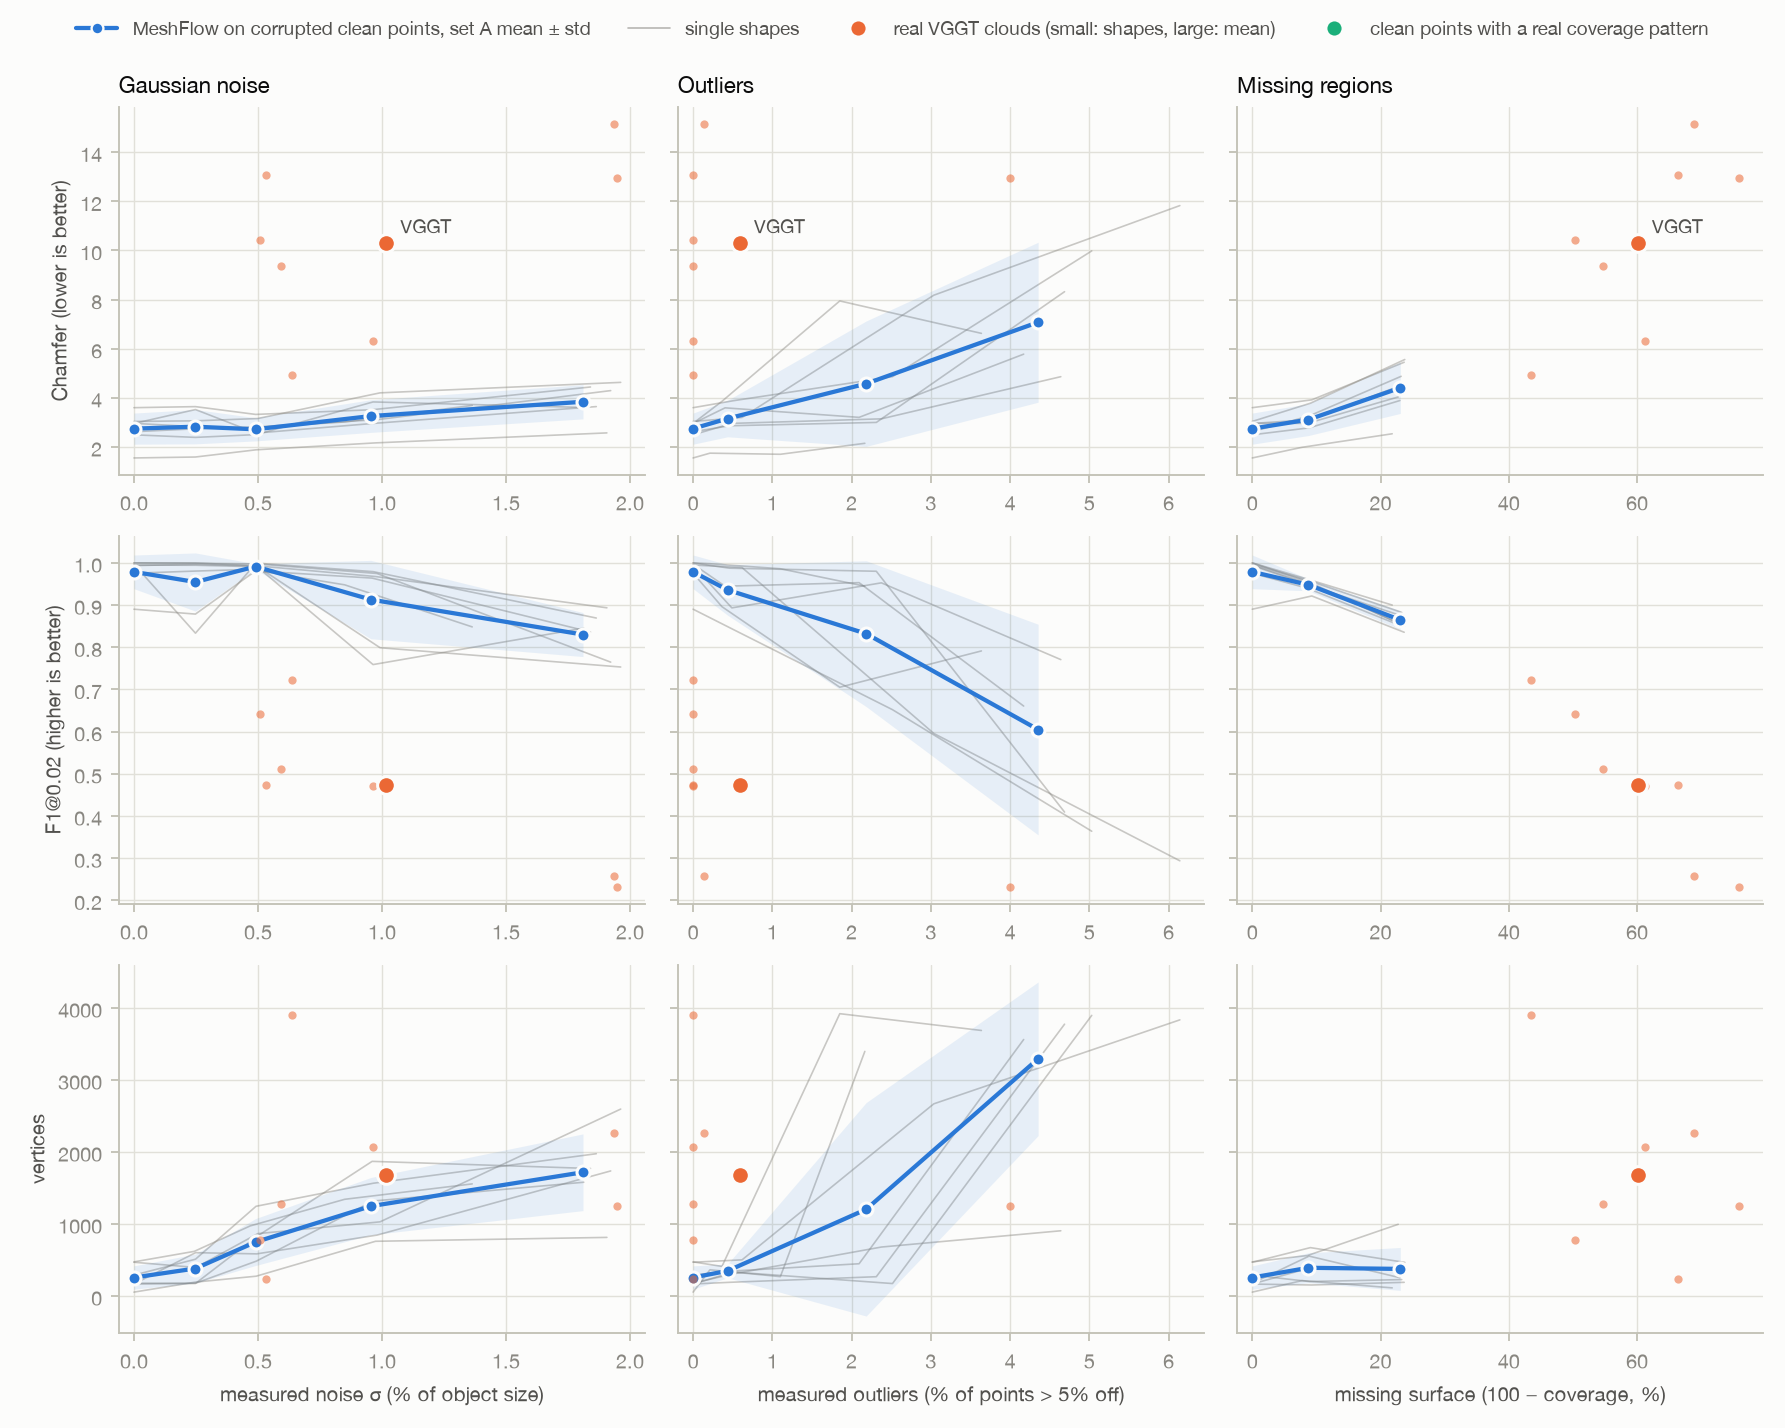
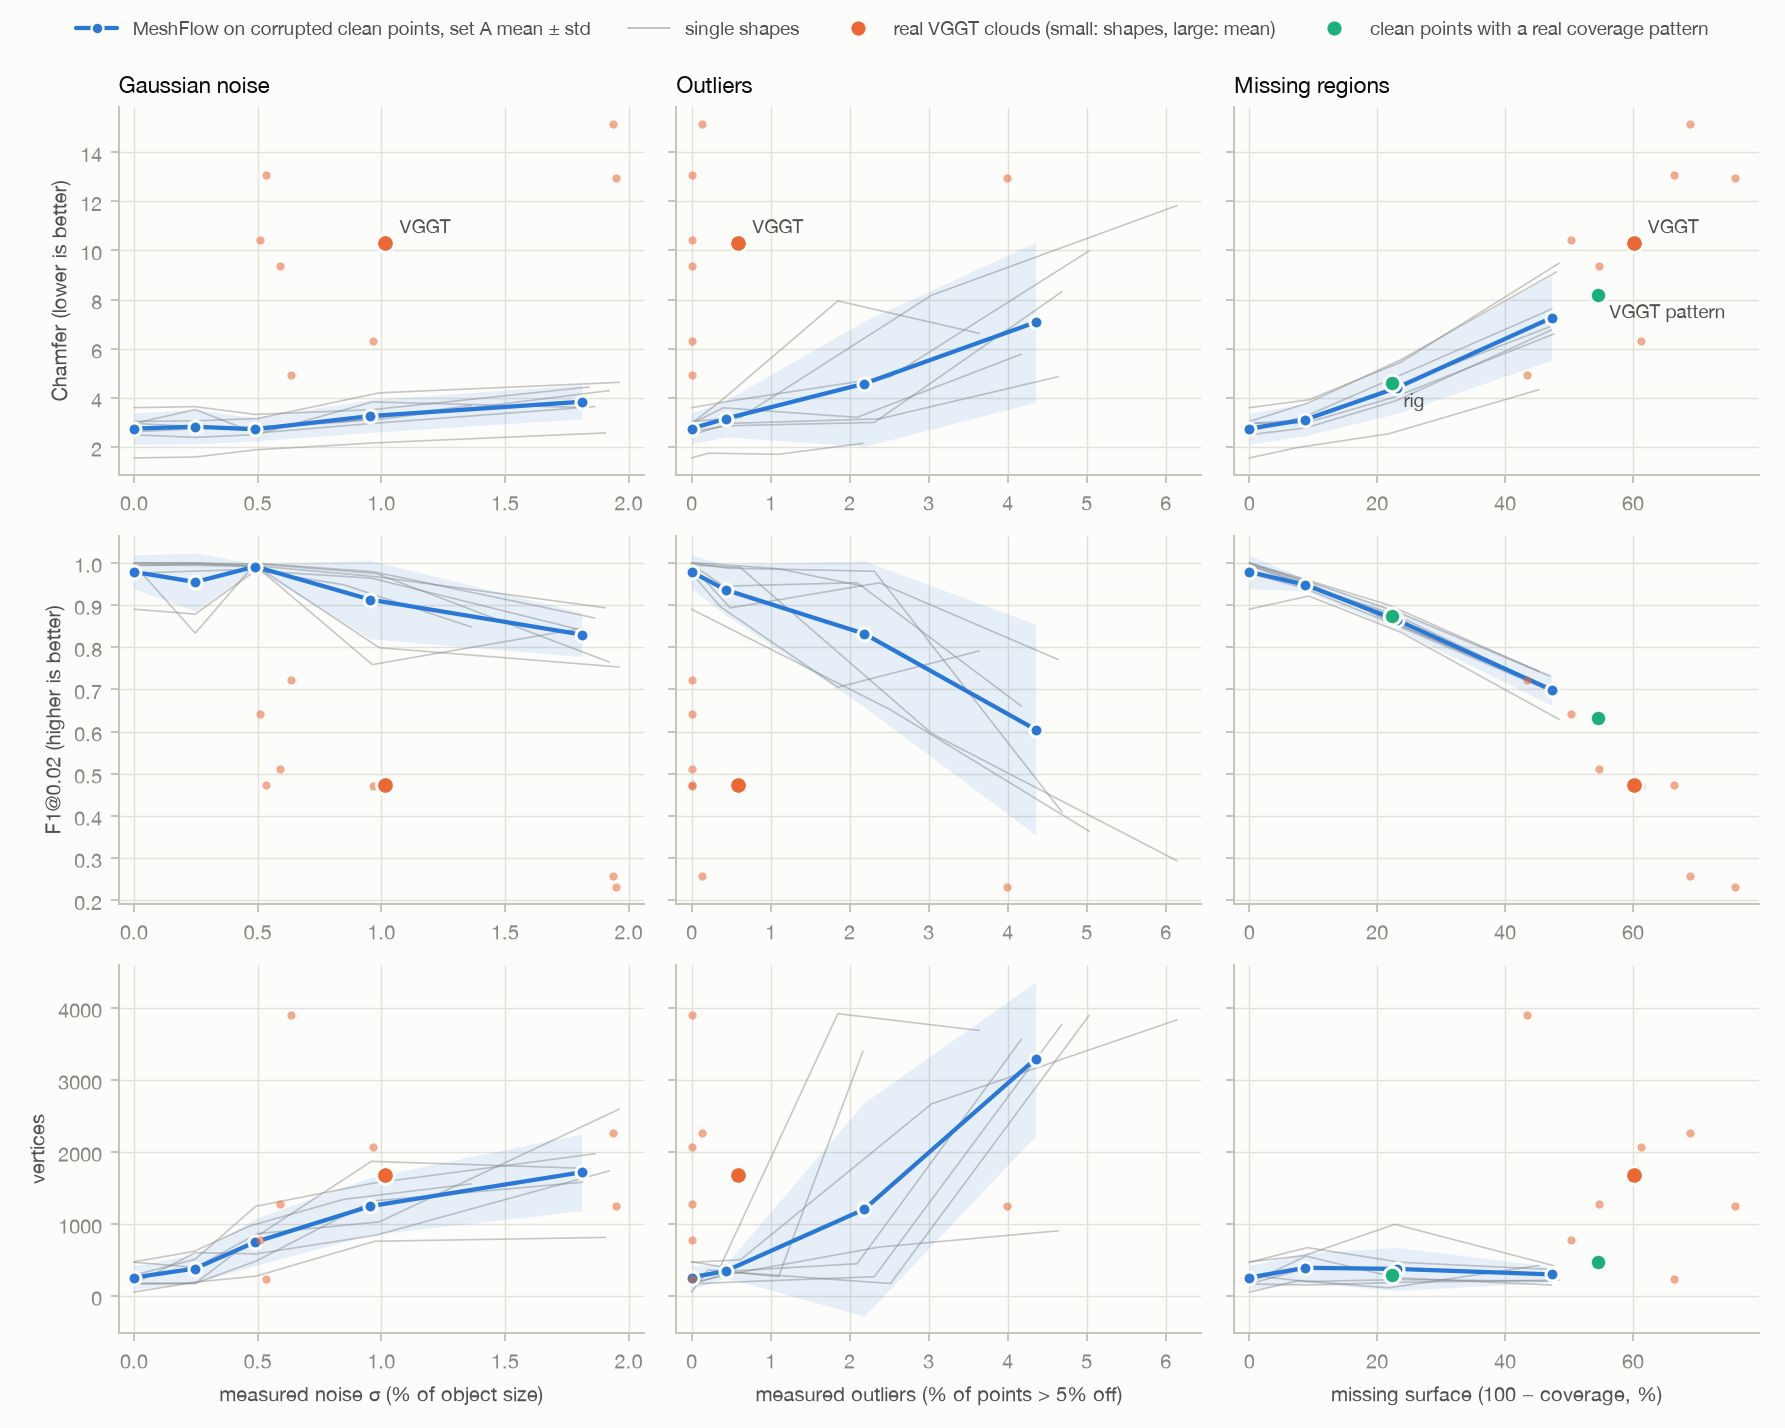
Robustness results: step 3 done (14:27)

diff --git a/docs/results/2026-11-08_robustness.md b/docs/results/2026-11-08_robustness.md
@@ -2,7 +2,7 @@
 
 Fahad Qaseem Khawar, 7 to 8 Nov 2026. Tables and figures are regenerated by `scripts/robustness_report.py` after every queue step; the interpretation at the end is written by hand.
 
-Queue: 336 of 600 jobs done (as of 2026-11-07 13:58:02).
+Queue: 420 of 600 jobs done (as of 2026-11-07 14:27:40).
 
 Protocol v1 (`docs/eval_protocol.md`): MeshFlow's Chamfer and Hausdorff (x100, GT scaled to [-0.5, 0.5]), normal consistency, F1 at 0.01 and 0.02 of the object size, vertex count, size = mesh extent / GT extent. Clouds reach the GT frame only through the render cameras. Set A = 7 original shapes, set B = 12 new shapes (clean test set); pencilpot is the dev shape and is in no mean.
 
@@ -12,14 +12,14 @@ The same statistics for every cloud (`src/photo2mesh/eval/robustness.py`), in % 
 
 | shape | points | noise σ (% of L) | bias (% of L) | outliers (%) | coverage (%) | visible from rig (%) |
 |---|---:|---:|---:|---:|---:|---:|
-| cylinder_472094 | 172,890 | 0.64 | -0.25 | 0.0 | 56.5 | - |
-| shackbot_94155 | 185,642 | 1.94 | 0.47 | 0.1 | 31.1 | - |
-| nsphere_186199 | 97,891 | 1.95 | 0.36 | 4.0 | 24.1 | - |
-| wheel_76903 | 200,000 | 0.59 | 0.35 | 0.0 | 45.3 | - |
-| presents_98021 | 200,000 | 0.53 | 0.79 | 0.0 | 33.6 | - |
-| monsterring_1356640 | 200,000 | 0.51 | 0.11 | 0.0 | 49.7 | - |
-| cryptex_105686 | 200,000 | 0.96 | 0.41 | 0.0 | 38.8 | - |
-| **mean ± std** | 179,489 ± 37,467 | 1.02 ± 0.65 | 0.32 ± 0.32 | 0.6 ± 1.5 | 39.9 ± 11.3 | - |
+| cylinder_472094 | 172,890 | 0.64 | -0.25 | 0.0 | 56.5 | 88.1 |
+| shackbot_94155 | 185,642 | 1.94 | 0.47 | 0.1 | 31.1 | 69.0 |
+| nsphere_186199 | 97,891 | 1.95 | 0.36 | 4.0 | 24.1 | 66.0 |
+| wheel_76903 | 200,000 | 0.59 | 0.35 | 0.0 | 45.3 | 75.8 |
+| presents_98021 | 200,000 | 0.53 | 0.79 | 0.0 | 33.6 | 77.8 |
+| monsterring_1356640 | 200,000 | 0.51 | 0.11 | 0.0 | 49.7 | 71.2 |
+| cryptex_105686 | 200,000 | 0.96 | 0.41 | 0.0 | 38.8 | 77.8 |
+| **mean ± std** | 179,489 ± 37,467 | 1.02 ± 0.65 | 0.32 ± 0.32 | 0.6 ± 1.5 | 39.9 ± 11.3 | 75.1 ± 7.3 |
 
 ## A2. MeshFlow on corrupted clean points (set A)
 
@@ -37,10 +37,24 @@ Corruptions of the 200k clean GT samples (`scripts/corrupt_points.py`); MeshFlow
 | outliers 10% | 10% | 4.35% | 7.08 ± 3.26 | 24.7 ± 9.5 | 0.629 ± 0.146 | 0.421 ± 0.275 | 0.605 ± 0.250 | 3,293 ± 1,067 | 1.04 ± 0.02 |
 | missing 10% | 10% | 8.76% | 3.11 ± 0.65 | 13.7 ± 3.2 | 0.919 ± 0.073 | 0.775 ± 0.085 | 0.948 ± 0.014 | 391 ± 208 | 1.01 ± 0.02 |
 | missing 25% | 25% | 23.09% | 4.41 ± 1.05 | 21.2 ± 5.6 | 0.902 ± 0.089 | 0.677 ± 0.127 | 0.865 ± 0.022 | 375 ± 298 | 1.00 ± 0.02 |
-| missing 50% | 50% | - | - | - | - | - | - | - | - |
+| missing 50% | 50% | 47.28% | 7.26 ± 1.73 | 29.4 ± 7.0 | 0.879 ± 0.084 | 0.564 ± 0.086 | 0.699 ± 0.036 | 299 ± 109 | 0.99 ± 0.04 |
 | **real VGGT cloud (pipeline)** | - | see A1 | 10.32 ± 3.73 | 28.0 ± 9.9 | 0.769 ± 0.071 | 0.298 ± 0.154 | 0.473 ± 0.181 | 1,682 ± 1,202 | 1.05 ± 0.02 |
 
 ![Degradation curves](figures/2026-11-08_degradation.png)
+
+## A3. Which corruption explains the gap (set A)
+
+One corruption at a time, from clean points to the real cloud. Rig = clean points the 8 render cameras can see. VGGT coverage pattern = clean points where the VGGT cloud has points (same test as the coverage statistic). Then that pattern plus the VGGT cloud's own measured noise and bias. Share of gap = this step's Chamfer change / (real VGGT − clean).
+
+| stage | share of gap (Chamfer) | Chamfer | Hausdorff | NC | F1@0.01 | F1@0.02 | #V | size | coverage (%) |
+|---|---:|---:|---:|---:|---:|---:|---:|---:|---:|
+| clean GT points | - | 2.74 ± 0.63 | 4.2 ± 1.1 | 0.908 ± 0.102 | 0.815 ± 0.149 | 0.979 ± 0.040 | 256 ± 162 | 1.02 ± 0.01 | 100.0 ± 0.0 |
+| visible from the 8 views | +24% | 4.59 ± 1.84 | 19.1 ± 10.2 | 0.865 ± 0.070 | 0.774 ± 0.085 | 0.875 ± 0.059 | 296 ± 140 | 1.01 ± 0.01 | 77.7 ± 8.3 |
+| VGGT coverage pattern | +48% | 8.21 ± 3.13 | 26.8 ± 10.7 | 0.842 ± 0.063 | 0.513 ± 0.079 | 0.633 ± 0.110 | 465 ± 251 | 1.02 ± 0.02 | 45.5 ± 11.7 |
+| + VGGT noise and bias | +4% | 8.55 ± 3.18 | 26.2 ± 10.6 | 0.758 ± 0.064 | 0.442 ± 0.112 | 0.627 ± 0.108 | 1,518 ± 595 | 1.05 ± 0.02 | 53.1 ± 10.4 |
+| real VGGT cloud | +23% | 10.32 ± 3.73 | 28.0 ± 9.9 | 0.769 ± 0.071 | 0.298 ± 0.154 | 0.473 ± 0.181 | 1,682 ± 1,202 | 1.05 ± 0.02 | 39.9 ± 11.3 |
+
+![Decomposition](figures/2026-11-08_ladder.png)
 
 ## B1. Better points without a GPU: TSDF fusion (sets A and B)
 
@@ -125,13 +139,13 @@ Pencilpot tuned the point filters (earlier) and the TSDF settings (this block).
 
 | shape | clean | noise0.25 | noise0.5 | noise1 | noise2 | out1 | out5 | out10 | miss10 | miss25 | miss50 | vis8 | vmask | vmask_noise | VGGT | relaxed | TSDF | point head |
 |---|---:|---:|---:|---:|---:|---:|---:|---:|---:|---:|---:|---:|---:|---:|---:|---:|---:|---:|
-| cylinder_472094 | 1.55 / 1.00 | 1.59 / 1.00 | 1.88 / 0.99 | 2.16 / 0.97 | 2.57 / 0.89 | 1.74 / 1.00 | 1.70 / 0.99 | 2.14 / 0.94 | 1.98 / 0.97 | 2.53 / 0.90 |  |  |  |  | 4.94 / 0.72 | 3.77 / 0.80 | 3.99 / 0.69 | 7.86 / 0.45 |
-| shackbot_94155 | 3.04 / 0.99 | 3.06 / 0.99 | 3.15 / 0.99 | 4.20 / 0.80 | 4.63 / 0.75 | 3.20 / 0.99 | 8.18 / 0.60 | 11.83 / 0.29 | 3.78 / 0.95 | 5.56 / 0.85 |  |  |  |  | 15.16 / 0.26 | 15.82 / 0.21 | 8.99 / 0.53 | 19.86 / 0.21 |
-| nsphere_186199 | 2.49 / 0.99 | 2.39 / 1.00 | 2.50 / 0.99 | 3.83 / 0.76 | 3.61 / 0.85 | 2.96 / 0.89 | 3.14 / 0.95 | 4.86 / 0.77 | 2.77 / 0.95 | 3.89 / 0.88 |  |  |  |  | 12.94 / 0.23 | 36.23 / 0.01 | 8.04 / 0.49 | 17.34 / 0.12 |
-| wheel_76903 | 2.62 / 1.00 | 2.74 / 1.00 | 2.82 / 1.00 | 3.11 / 0.97 | 4.29 / 0.76 | 2.86 / 0.99 | 3.00 / 0.98 | 8.32 / 0.41 | 3.26 / 0.95 | 4.87 / 0.85 |  |  |  |  | 9.39 / 0.51 | 6.08 / 0.80 | 5.20 / 0.84 | 9.84 / 0.42 |
-| presents_98021 | 3.60 / 0.89 | 3.64 / 0.88 | 3.32 / 0.98 | 3.51 / 0.96 | 4.44 / 0.84 | 3.88 / 0.84 | 4.86 / 0.65 | 9.98 / 0.36 | 3.92 / 0.92 | 5.45 / 0.84 |  |  |  |  | 13.07 / 0.47 | 8.98 / 0.33 | 5.35 / 0.72 | 13.76 / 0.41 |
-| monsterring_1356640 | 2.95 / 1.00 | 3.52 / 0.83 | 2.56 / 1.00 | 2.95 / 0.98 | 3.64 / 0.87 | 3.59 / 0.94 | 3.20 / 0.95 | 5.78 / 0.66 | 3.11 / 0.96 | 4.51 / 0.88 |  |  |  |  | 10.44 / 0.64 | 6.23 / 0.84 | 6.36 / 0.83 | 8.41 / 0.73 |
-| cryptex_105686 | 2.96 / 0.98 | 2.82 / 0.98 | 2.77 / 0.98 | 3.01 / 0.95 | 3.69 / 0.85 | 3.85 / 0.90 | 7.95 / 0.71 | 6.62 / 0.79 | 2.96 / 0.94 | 4.03 / 0.85 |  |  |  |  | 6.32 / 0.47 | 7.12 / 0.39 | 3.93 / 0.72 | 6.31 / 0.40 |
+| cylinder_472094 | 1.55 / 1.00 | 1.59 / 1.00 | 1.88 / 0.99 | 2.16 / 0.97 | 2.57 / 0.89 | 1.74 / 1.00 | 1.70 / 0.99 | 2.14 / 0.94 | 1.98 / 0.97 | 2.53 / 0.90 | 4.33 / 0.74 | 1.92 / 0.95 | 3.87 / 0.80 | 3.97 / 0.80 | 4.94 / 0.72 | 3.77 / 0.80 | 3.99 / 0.69 | 7.86 / 0.45 |
+| shackbot_94155 | 3.04 / 0.99 | 3.06 / 0.99 | 3.15 / 0.99 | 4.20 / 0.80 | 4.63 / 0.75 | 3.20 / 0.99 | 8.18 / 0.60 | 11.83 / 0.29 | 3.78 / 0.95 | 5.56 / 0.85 | 9.13 / 0.69 | 7.27 / 0.82 | 11.67 / 0.55 | 11.85 / 0.52 | 15.16 / 0.26 | 15.82 / 0.21 | 8.99 / 0.53 | 19.86 / 0.21 |
+| nsphere_186199 | 2.49 / 0.99 | 2.39 / 1.00 | 2.50 / 0.99 | 3.83 / 0.76 | 3.61 / 0.85 | 2.96 / 0.89 | 3.14 / 0.95 | 4.86 / 0.77 | 2.77 / 0.95 | 3.89 / 0.88 | 6.76 / 0.70 | 4.88 / 0.81 | 9.91 / 0.49 | 10.11 / 0.53 | 12.94 / 0.23 | 36.23 / 0.01 | 8.04 / 0.49 | 17.34 / 0.12 |
+| wheel_76903 | 2.62 / 1.00 | 2.74 / 1.00 | 2.82 / 1.00 | 3.11 / 0.97 | 4.29 / 0.76 | 2.86 / 0.99 | 3.00 / 0.98 | 8.32 / 0.41 | 3.26 / 0.95 | 4.87 / 0.85 | 7.62 / 0.70 | 4.52 / 0.88 | 7.20 / 0.68 | 7.78 / 0.66 | 9.39 / 0.51 | 6.08 / 0.80 | 5.20 / 0.84 | 9.84 / 0.42 |
+| presents_98021 | 3.60 / 0.89 | 3.64 / 0.88 | 3.32 / 0.98 | 3.51 / 0.96 | 4.44 / 0.84 | 3.88 / 0.84 | 4.86 / 0.65 | 9.98 / 0.36 | 3.92 / 0.92 | 5.45 / 0.84 | 9.48 / 0.63 | 4.44 / 0.86 | 11.16 / 0.54 | 11.86 / 0.51 | 13.07 / 0.47 | 8.98 / 0.33 | 5.35 / 0.72 | 13.76 / 0.41 |
+| monsterring_1356640 | 2.95 / 1.00 | 3.52 / 0.83 | 2.56 / 1.00 | 2.95 / 0.98 | 3.64 / 0.87 | 3.59 / 0.94 | 3.20 / 0.95 | 5.78 / 0.66 | 3.11 / 0.96 | 4.51 / 0.88 | 6.89 / 0.73 | 6.25 / 0.84 | 9.20 / 0.70 | 9.44 / 0.69 | 10.44 / 0.64 | 6.23 / 0.84 | 6.36 / 0.83 | 8.41 / 0.73 |
+| cryptex_105686 | 2.96 / 0.98 | 2.82 / 0.98 | 2.77 / 0.98 | 3.01 / 0.95 | 3.69 / 0.85 | 3.85 / 0.90 | 7.95 / 0.71 | 6.62 / 0.79 | 2.96 / 0.94 | 4.03 / 0.85 | 6.60 / 0.69 | 2.83 / 0.95 | 4.42 / 0.68 | 4.81 / 0.67 | 6.32 / 0.47 | 7.12 / 0.39 | 3.93 / 0.72 | 6.31 / 0.40 |
 | thingi_1146183 (B) | 2.38 / 1.00 |  |  |  |  |  |  |  |  |  |  |  |  |  | 11.42 / 0.60 |  |  |  |
 | thingi_84620 (B) | 2.69 / 0.99 |  |  |  |  |  |  |  |  |  |  |  |  |  | 7.46 / 0.44 |  |  |  |
 | thingi_77949 (B) | 3.41 / 0.94 |  |  |  |  |  |  |  |  |  |  |  |  |  | 6.66 / 0.32 |  |  |  |
